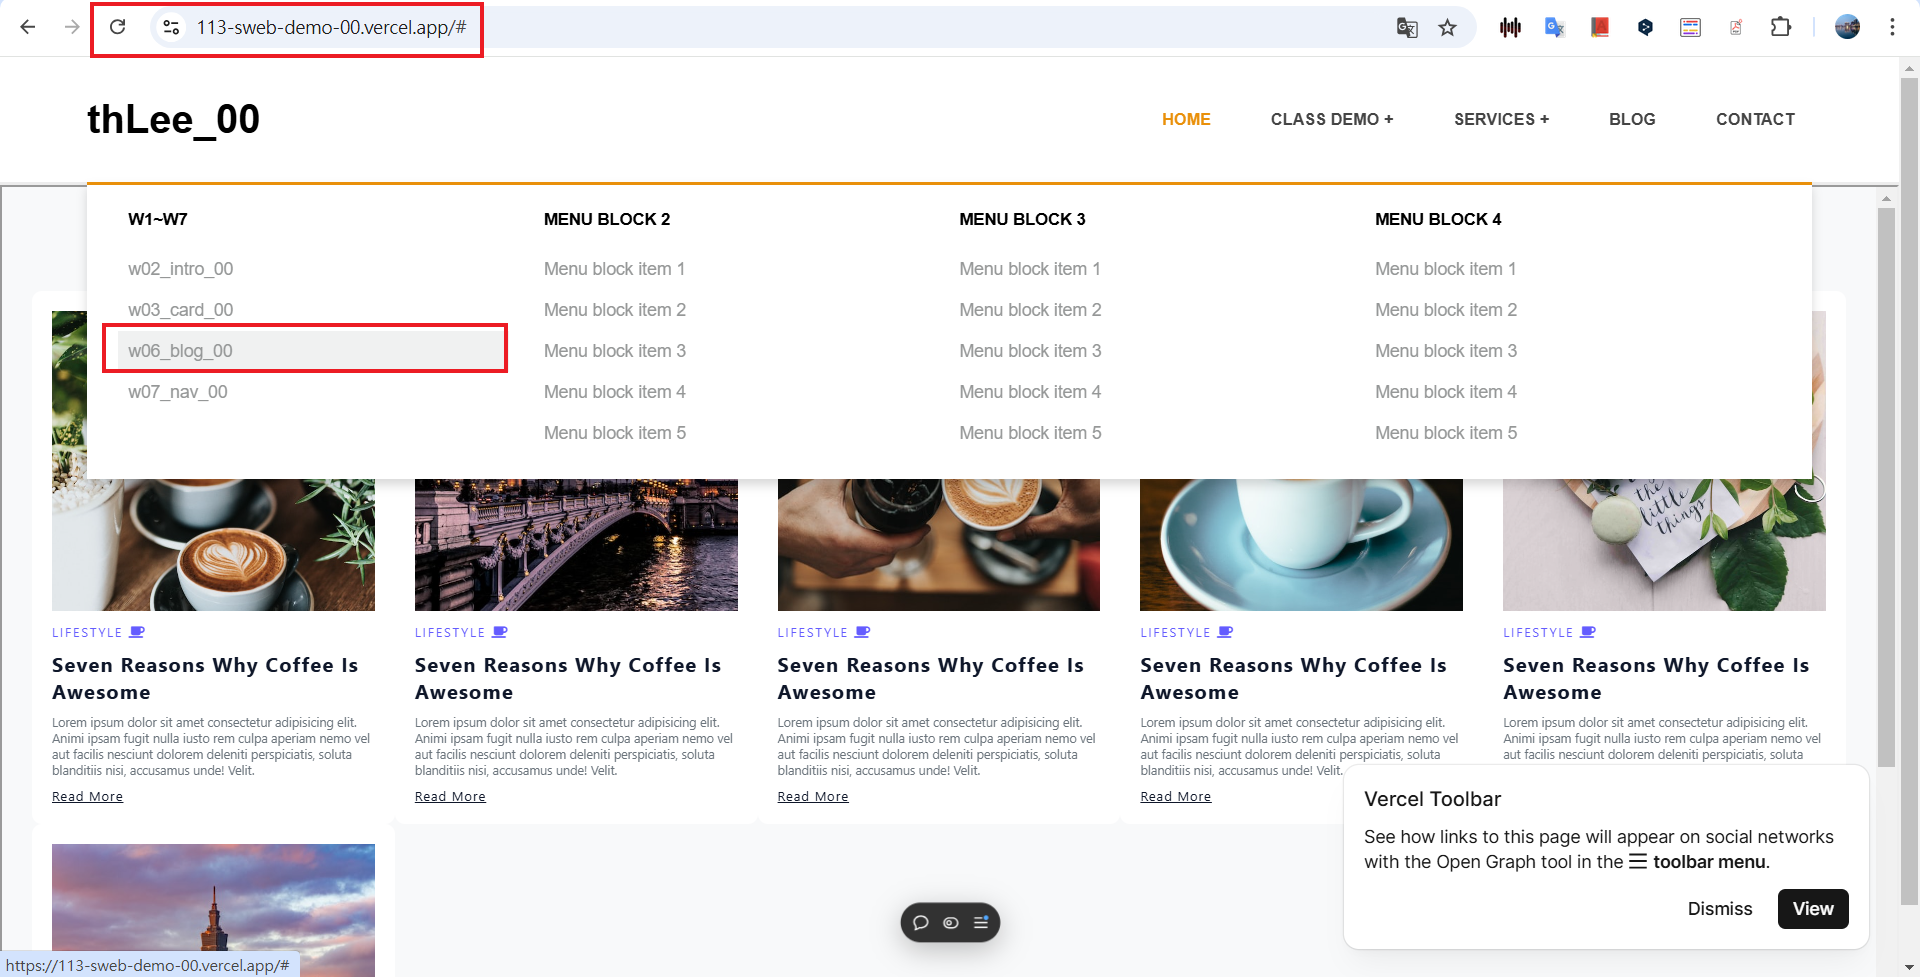
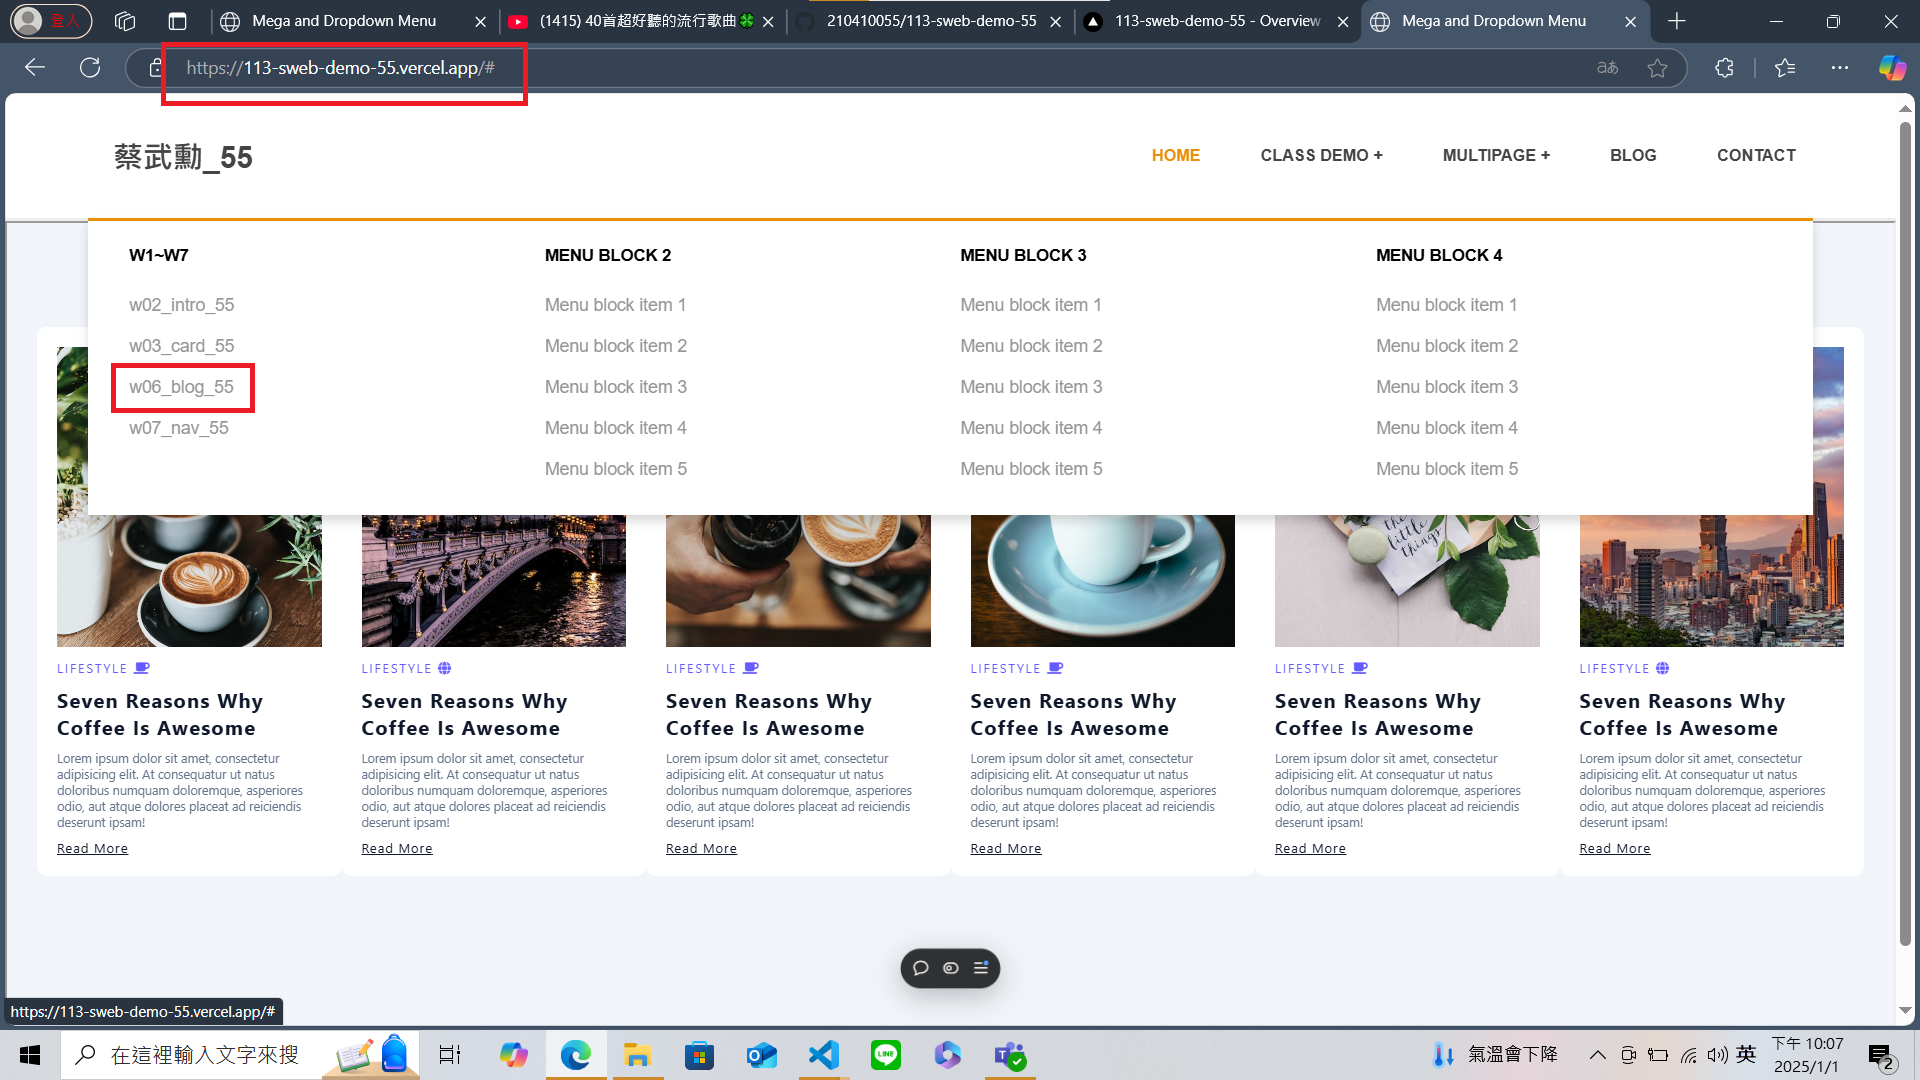
fix ticatoe_55.html

diff --git a/tictactoe_55.html b/tictactoe_55.html
@@ -8,8 +8,8 @@
     <link rel="stylesheet" href="https://cdnjs.cloudflare.com/ajax/libs/font-awesome/6.7.1/css/all.min.css" integrity="sha512-5Hs3dF2AEPkpNAR7UiOHba+lRSJNeM2ECkwxUIxC1Q/FLycGTbNapWXB4tP889k5T5Ju8fs4b1P5z/iB4nMfSQ==" crossorigin="anonymous" referrerpolicy="no-referrer" />
 
     <link rel="stylesheet" href="./css/all.min.css">
-    <link rel="stylesheet" href="./css/megaMenu_00.css.css" />
-    <link rel="stylesheet" href="./css/tictactoe_00.css">
+    <link rel="stylesheet" href="./css/megaMenu_55.css" />
+    <link rel="stylesheet" href="./css/tictactoe_55.css">
     <title>TictTacToe Demo</title>
 </head>
 <body>
@@ -17,7 +17,7 @@
         <div class="header-row container" role="navigation" aria-label="Main">
           <div class="header-left">
             <div class="logo">
-              <h1>Sean_55</h1>
+              <h1>蔡武勳_55</h1>
             </div>
           </div>
           <div class="header-right">
@@ -74,7 +74,7 @@
                 <a href="#">Multipage +</a>
                 <div class="sub-menu-wrapper slideInUp">
                   <ul class="sub-menu">
-                    <li class="menu-item"><a href="./tictactoe_00.html">TicTacToe_00</a></li>
+                    <li class="menu-item"><a href="./tictactoe_55.html">tictactoe_55</a></li>
                     <li class="menu-item"><a href="#">Service 2</a></li>
                     <li class="menu-item"><a href="#">Service 3</a></li>
                     <li class="menu-item"><a href="#">Service 4</a></li>
@@ -148,7 +148,7 @@
                 <a href="#">Multipage +</a>
                 <div class="sub-menu-wrapper slideInUp">
                   <ul class="sub-menu">
-                    <li class="menu-item"><a href="./tictactoe_00.html">TicTacToe_00</a></li>
+                    <li class="menu-item"><a href="./tictactoe_55.html">TicTacToe_55</a></li>
                     <li class="menu-item"><a href="#">Service 2</a></li>
                     <li class="menu-item"><a href="#">Service 3</a></li>
                     <li class="menu-item"><a href="#">Service 4</a></li>
@@ -183,7 +183,7 @@
         </footer>
     </section>
 
-    <script src="./js/megaMenu_00.js.js"></script>
+    <script src="./js/megaMenu_55.js"></script>
 </body>
 </html>
 
